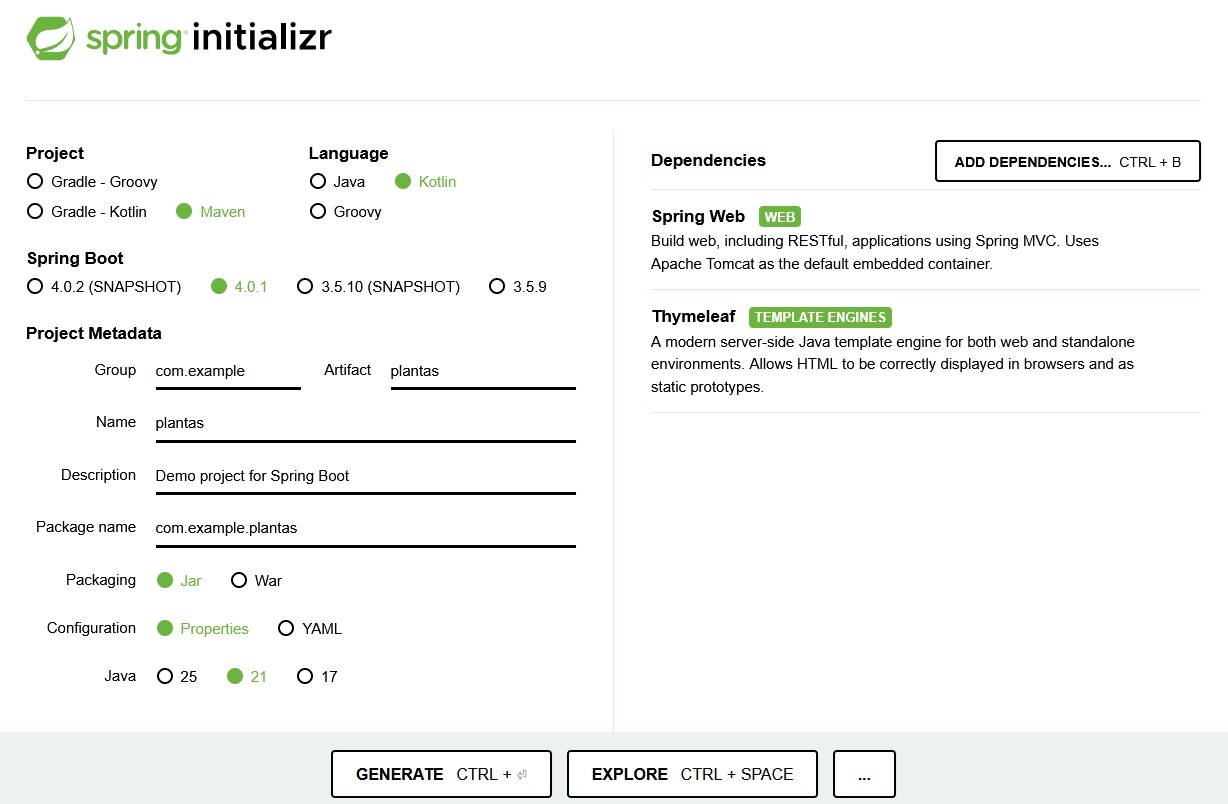
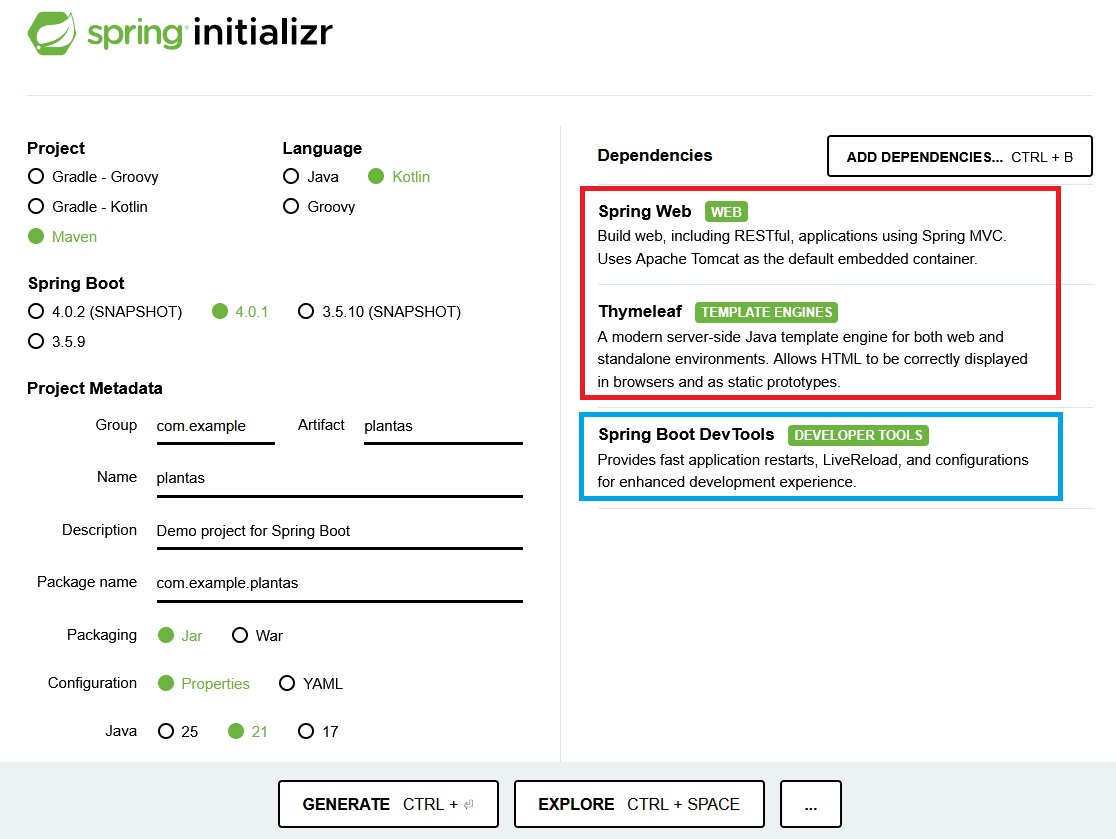
ene02

diff --git a/docs/4_Componentes.md b/docs/4_Componentes.md
@@ -391,7 +391,23 @@ Vamos a crear la aplicación paso a paso para poder explicar cada concepto.
 
 Accedemos a Spring Initializr desde la url [https://start.spring.io/](https://start.spring.io/), indicamos el nombre de la aplicación y, en este caso, ademas de la dependencia **Spring Web** necesitamos también **Thymeleaf** (el resto de opciones las podemos dejar como se ve en la imagen). Por último hacemos clic en el botón GENERATE para descargar nuestro nuevo proyecto.
 
+Opcionalmente podemos añadir **Spring Boot DevTools** que nos ahorrará tiempo de desarrollo ya que:
+
+- Reinicia automáticamente la aplicación cuando cambias código.
+
+- Recarga las plantillas Thymeleaf sin reiniciar manualmente.
+
+Para tener estas funciones activas, además de añadir la dependencia, hay configurar IntelliJ para que compile al guardar activando las opciones siguientes: 
+
+- Build project automatically (Settings → Build, Execution, Deployment → Compiler)
+
+- Allow auto-make to start even if developed application is currently running (Settings → Advanced Settings)
+
+De esta forma, cuando realicemos un cambio en un archivo de nuestra aplicación, bastará con guardar el archivo y recarga el navegador (sin reiniciar la app) para ver los cambios inmediatamente.
+
+
 ![Spring 7](img/spring/spring07.jpg)
+
 
 
 **PASO 2: Abrir el proyecto y comprobar**
@@ -610,7 +626,6 @@ Formulario:
 !!! success "Prueba y analiza el ejemplo 2"
     1. Crea un nuevo proyecto Spring Boot utilizando Spring Initializr.
     2. Prueba el código del ejemplo, verifica que funciona correctamente y pregunta tus dudas.
-
 
 
 
